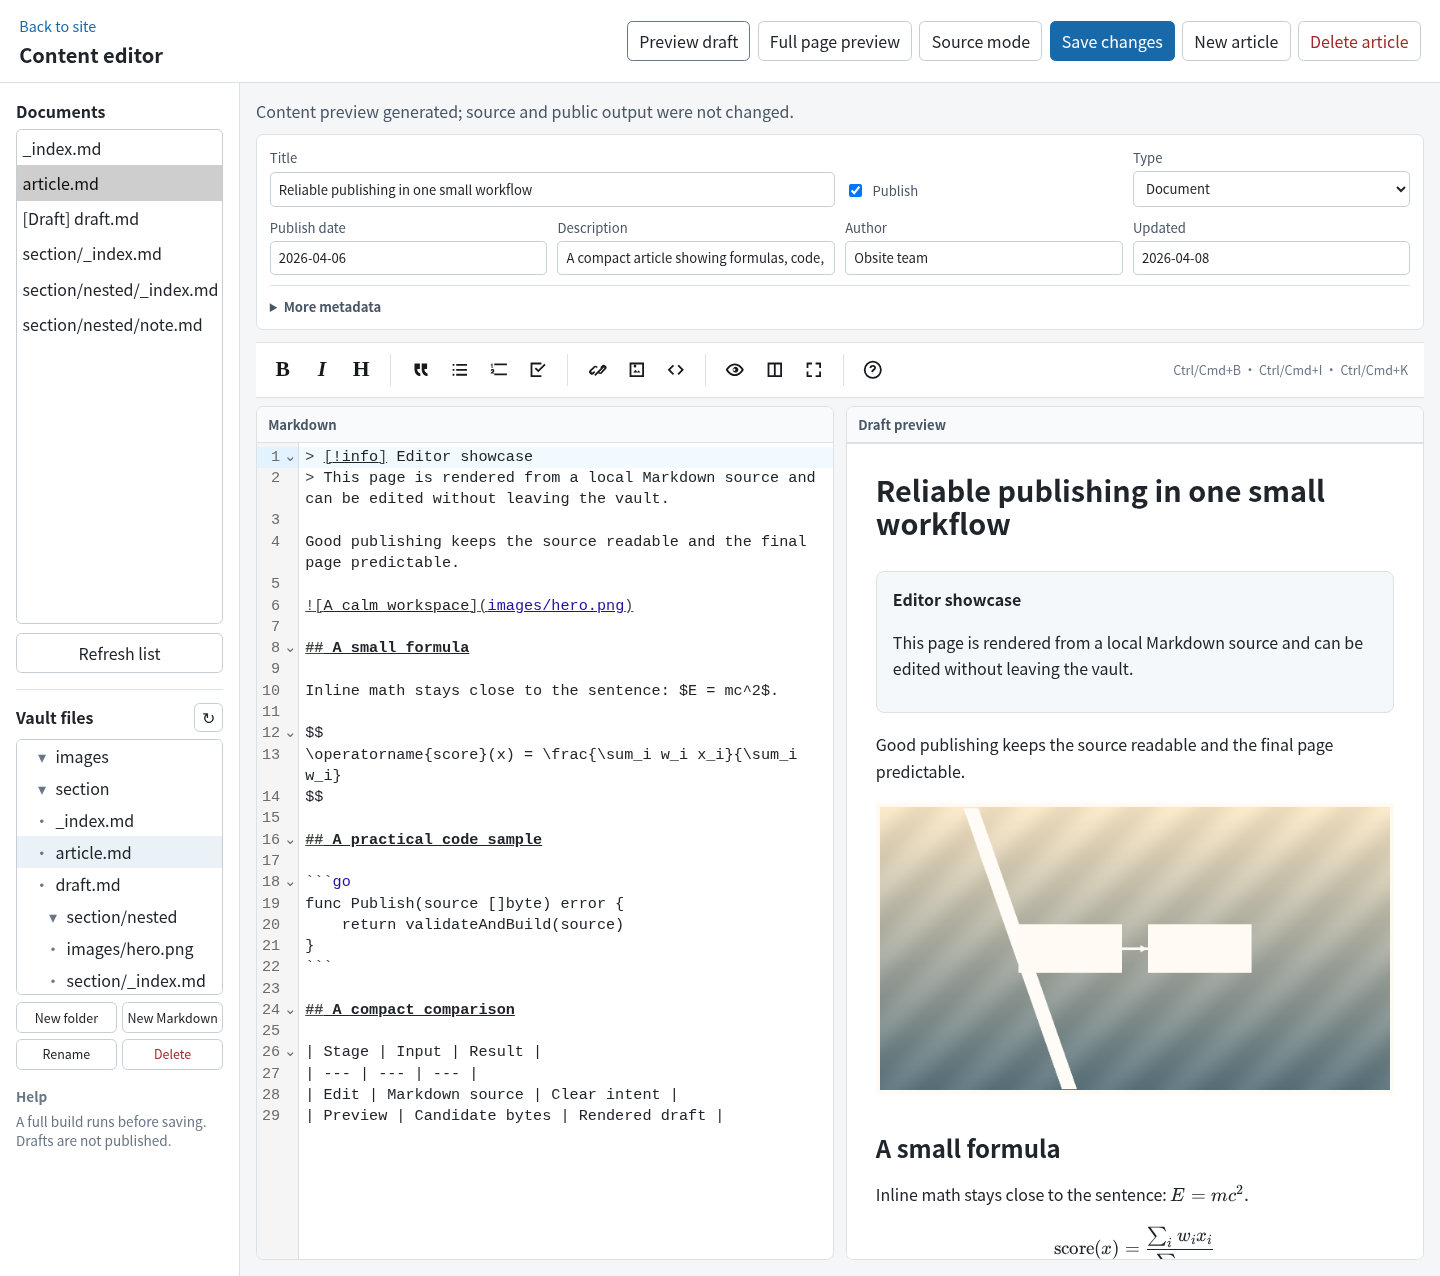
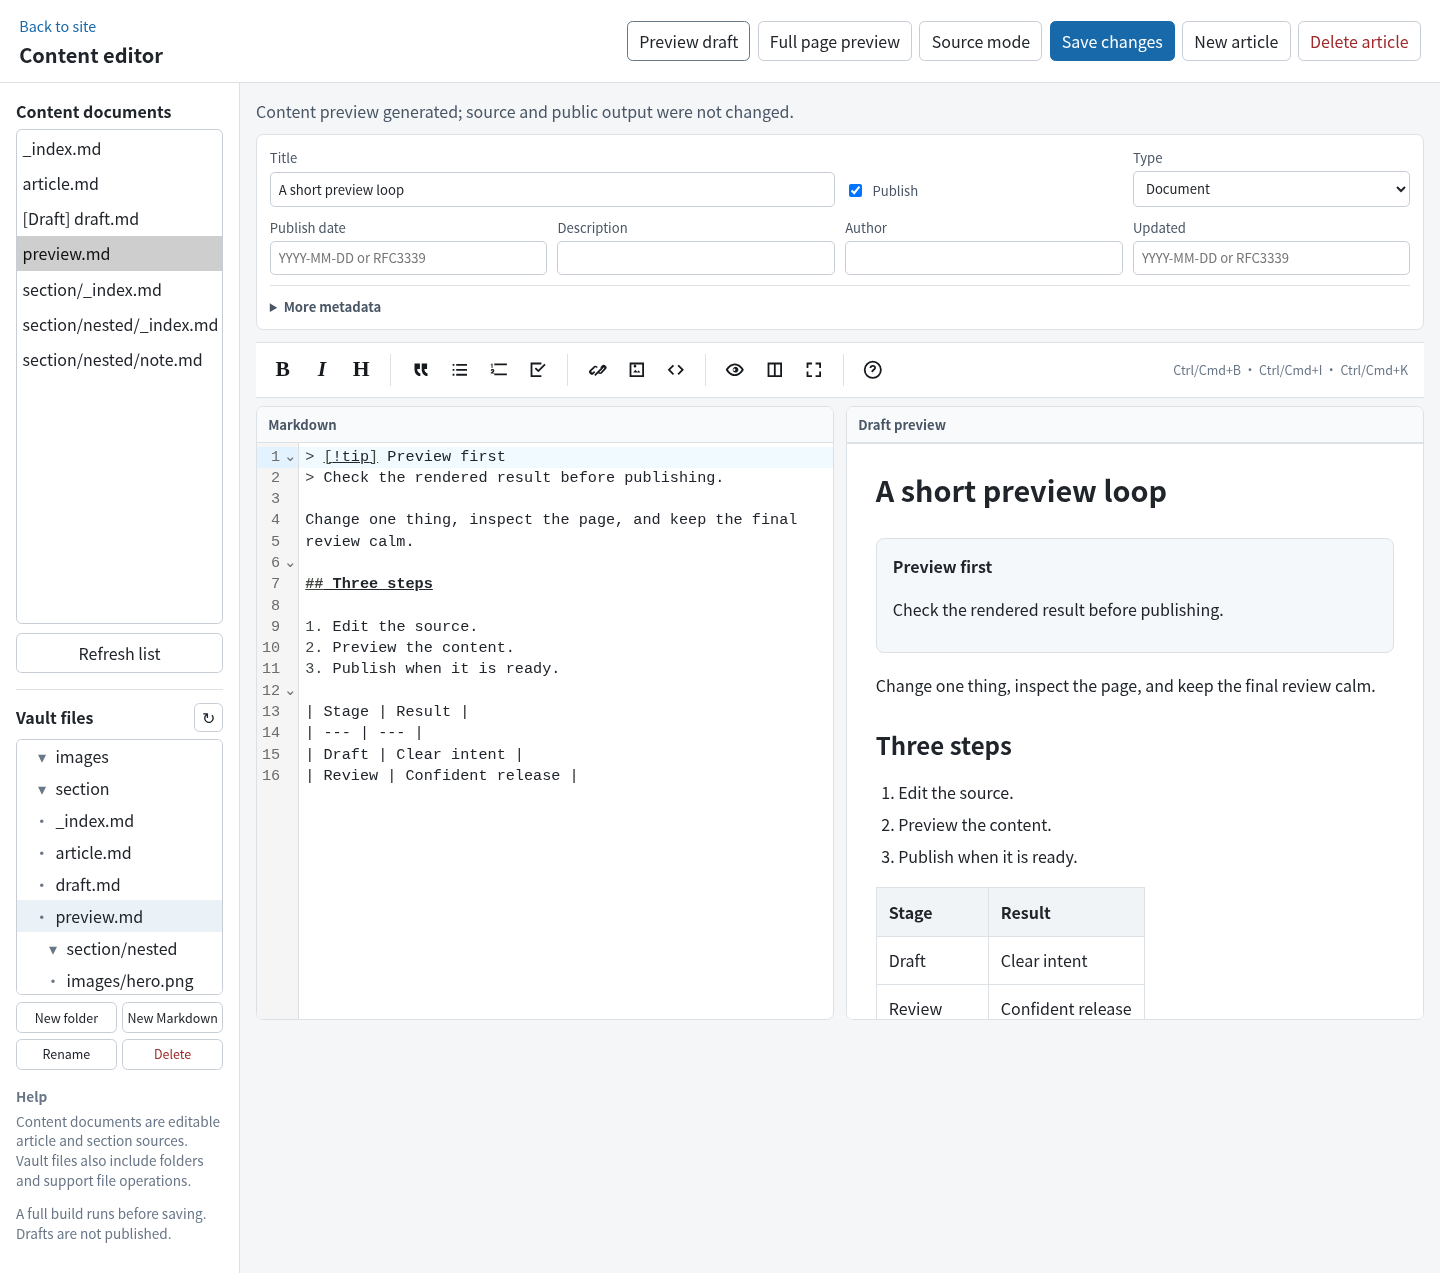
docs(edit): refine editor screenshots

diff --git a/internal/edit/web/editor.html b/internal/edit/web/editor.html
@@ -38,8 +38,8 @@
 
   <main class="editor-layout">
     <aside class="source-sidebar" aria-label="Document list">
-      <label for="source">Documents</label>
-      <select id="source" size="14" aria-label="Select document"></select>
+      <label for="source">Content documents</label>
+      <select id="source" size="14" aria-label="Select content document"></select>
       <button id="refresh" type="button">Refresh list</button>
       <section class="file-manager" aria-label="Vault files">
         <div class="file-manager-header"><strong>Vault files</strong><button id="file-refresh" type="button" aria-label="Refresh files" title="Refresh files">↻</button></div>
@@ -53,6 +53,7 @@
       </section>
       <div class="sidebar-help">
         <strong>Help</strong>
+        <p>Content documents are editable article and section sources. Vault files also include folders and support file operations.</p>
         <p>A full build runs before saving. Drafts are not published.</p>
       </div>
     </aside>

diff --git a/README.md b/README.md
@@ -21,11 +21,7 @@ The editor keeps the vault as the source of truth and publishes only after valid
   <a href="docs/images/editor-source.png"><img src="docs/images/editor-source.png" alt="Obsite editor source mode with frontmatter and content-only Markdown preview" width="49%"></a>
 </div>
 
-<p align="center"><em>The first frame shows the content-only draft with several Markdown elements rendered; the next frame shows source mode alongside the same <strong>Draft preview</strong>.</em></p>
-
-<div align="center">
-  <a href="docs/images/editor-login.png"><img src="docs/images/editor-login.png" alt="Obsite editor login screen" width="49%"></a>
-</div>
+<p align="center"><em>The first frame shows a short content-only draft preview; the next frame shows the longer showcase article in source mode.</em></p>
 
 ## Commands
 
